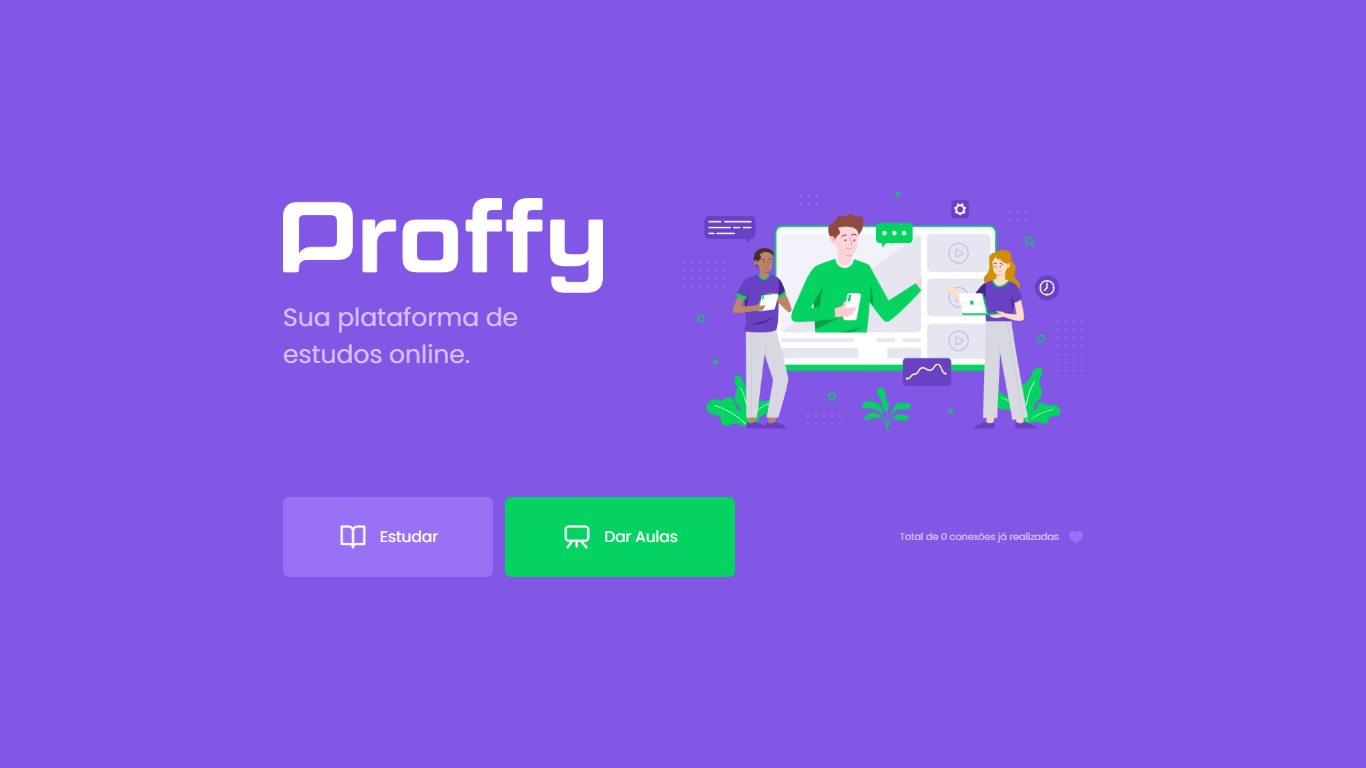
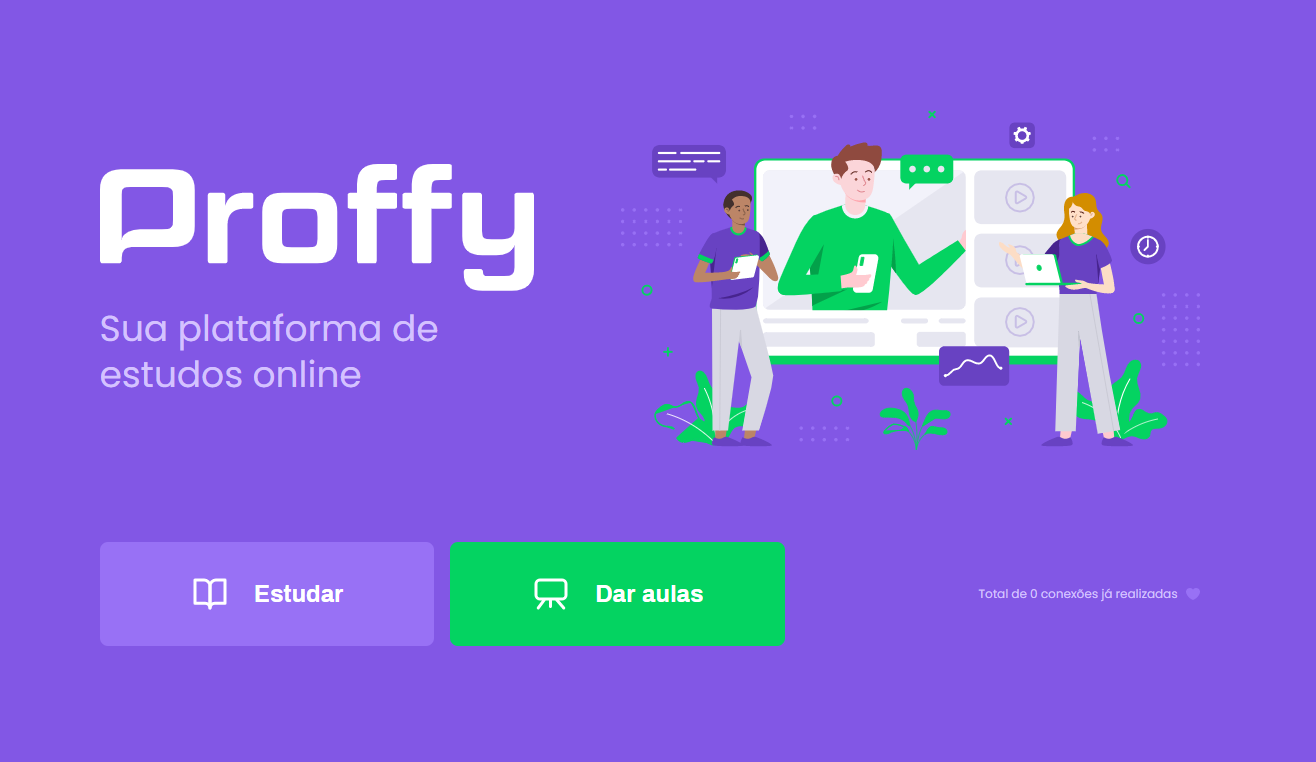
Atualização da imagem Readme.md
Adição de icon na page index.html

diff --git a/index.html b/index.html
@@ -3,9 +3,13 @@
 <head>
     <meta charset="UTF-8">
     <meta name="viewport" content="width=device-width, initial-scale=1.0">
+    <meta name="theme-color" content="#8257E5">
+
     <title>Proffy | Sua plataforma de estudos online</title>
+
     <link rel="stylesheet" href="/styles/main.css">
     <link rel="stylesheet" href="/styles/partials/page-landing.css">
+    <link rel="shortcut icon" href="/images/favicon.png" type="image/png">
 
 
     <link href="https://fonts.googleapis.com/css2?family=Archivo:wght@400;700&amp;family=Poppins:wght@400;600&amp;display=swap" rel="stylesheet">
